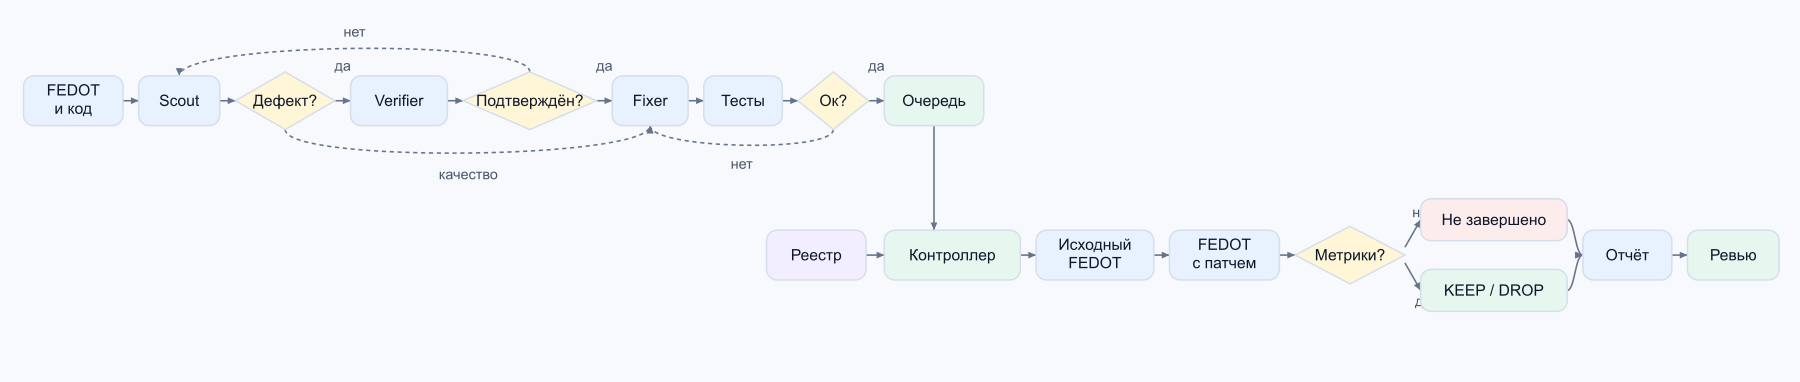
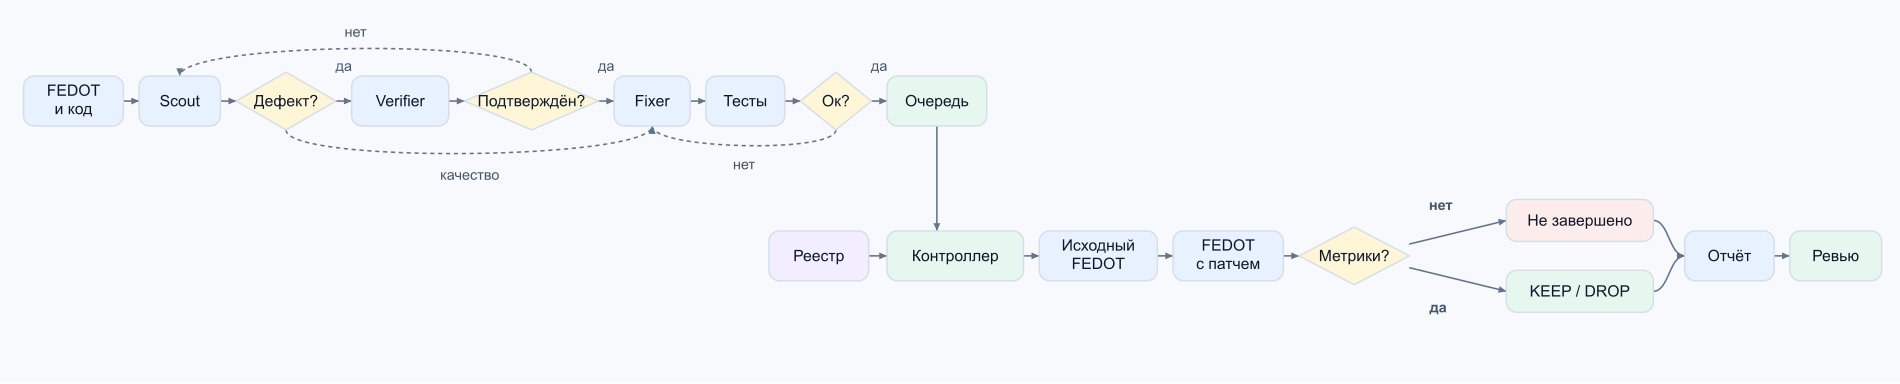
docs: keep a single flowchart image
Drop the earlier diagram files and point the design document at one picture.

diff --git a/docs/ml_system_design_doc.md b/docs/ml_system_design_doc.md
@@ -70,7 +70,7 @@ FEDOT автоматически строит ML-пайплайны, но раз
 
 ### 2.2. Блок-схема решения
 
-![Блок-схема EvolveAgent](evolve-flowchart-2.png)
+![Блок-схема EvolveAgent](evolve-flowchart.png)
 
 Схема повторяется для каждого датасета. Пары идут параллельно в общем лимите. Финальные метрики агенту не возвращаются.
 
